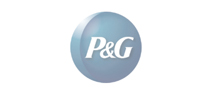
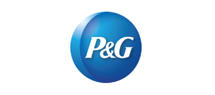
[feature] use opacity instead of replacing the image

Changed region(s): [[0.307, 0.1053, 0.6698, 0.8842]]

diff --git a/app/assets/stylesheets/modules/partials/best-product.sass b/app/assets/stylesheets/modules/partials/best-product.sass
@@ -87,103 +87,59 @@
     margin-bottom: 15px
     text-indent: -9999px
     +global-box-shadow
+  .brands
+    opacity: 0.5
+  .brands:hover
+    opacity: 1
   .hermes
     background-image: image-url("brands/Hermes.jpg")
-  .hermes:hover
-    background-image: image-url("brands/Hermes_hover.jpg")
   .make-up-forever
     background-image: image-url("brands/make_up_forever.jpg")
-  .make-up-forever:hover
-    background-image: image-url("brands/make_up_forever_hover.jpg")
   .shanghai-beach
     background-image: image-url("brands/shanghai_beach.jpg")
-  .shanghai-beach:hover
-    background-image: image-url("brands/shanghai_beach_hover.jpg")
   .chole
     background-image: image-url("brands/chole.jpg")
-  .chole:hover
-    background-image: image-url("brands/chole_hover.jpg")
   .HR
     background-image: image-url("brands/HR.jpg")
-  .HR:hover
-    background-image: image-url("brands/HR_hover.jpg")
   .ctrip
     background-image: image-url("brands/ctrip.jpg")
-  .ctrip:hover
-    background-image: image-url("brands/ctrip_hover.jpg")
   .Ritz-Carlton
     background-image: image-url("brands/Ritz-Carlton.jpg")
-  .Ritz-Carlton:hover
-    background-image: image-url("brands/Ritz-Carlton_hover.jpg")
   .MaBelle
     background-image: image-url("brands/MaBelle.jpg")
-  .MaBelle:hover
-    background-image: image-url("brands/MaBelle_hover.jpg")
   .leo-diamond
     background-image: image-url("brands/leo-diamond.jpg")
-  .leo-diamond:hover
-    background-image: image-url("brands/leo-diamond_hover.jpg")
   .renaissance-wedding-show
     background-image: image-url("brands/renaissance-wedding-show.jpg")
-  .renaissance-wedding-show:hover
-    background-image: image-url("brands/renaissance-wedding-show_hover.jpg")
   .sally-hansen
     background-image: image-url("brands/sally-hansen.jpg")
-  .sally-hansen:hover
-    background-image: image-url("brands/sally-hansen_hover.jpg")
   .valentine-perfume
     background-image: image-url("brands/valentine-perfume.jpg")
-  .valentine-perfume:hover
-    background-image: image-url("brands/valentine-perfume_hover.jpg")
   .p-and-g
     background-image: image-url("brands/p-and-g.jpg")
-  .p-and-g:hover
-    background-image: image-url("brands/p-and-g_hover.jpg")
   .tencent
     background-image: image-url("brands/tencent.jpg")
-  .tencent:hover
-    background-image: image-url("brands/tencent_hover.jpg")
   .shiseido
     background-image: image-url("brands/shiseido.jpg")
-  .shiseido:hover
-    background-image: image-url("brands/shiseido_hover.jpg")
   .evbuy
     background-image: image-url("brands/evbuy.jpg")
-  .evbuy:hover
-    background-image: image-url("brands/evbuy_hover.jpg")
   .fields-china
     background-image: image-url("brands/fields-china.jpg")
-  .fields-china:hover
-    background-image: image-url("brands/fields-china_hover.jpg")
   .qu-africa
     background-image: image-url("brands/qu-africa.jpg")
-  .qu-africa:hover
-    background-image: image-url("brands/qu-africa_hover.jpg")
   .city-life
     background-image: image-url("brands/city-life.jpg")
-  .city-life:hover
-    background-image: image-url("brands/city-life_hover.jpg")
 
   .godiva-chocolatier
     background-image: image-url("brands/godiva-chocolatier.jpg")
-  .godiva-chocolatier:hover
-    background-image: image-url("brands/godiva-chocolatier_hover.jpg")
   .sonoko
     background-image: image-url("brands/sonoko.jpg")
-  .sonoko:hover
-    background-image: image-url("brands/sonoko_hover.jpg")
   .yhouse
     background-image: image-url("brands/yhouse.jpg")
-  .yhouse:hover
-    background-image: image-url("brands/yhouse_hover.jpg")
   .davidoff
     background-image: image-url("brands/davidoff.jpg")
-  .davidoff:hover
-    background-image: image-url("brands/davidoff_hover.jpg")
   .acqua
     background-image: image-url("brands/acqua.jpg")
-  .acqua:hover
-    background-image: image-url("brands/acqua_hover.jpg")
 
 
 .celebrities, .medias
